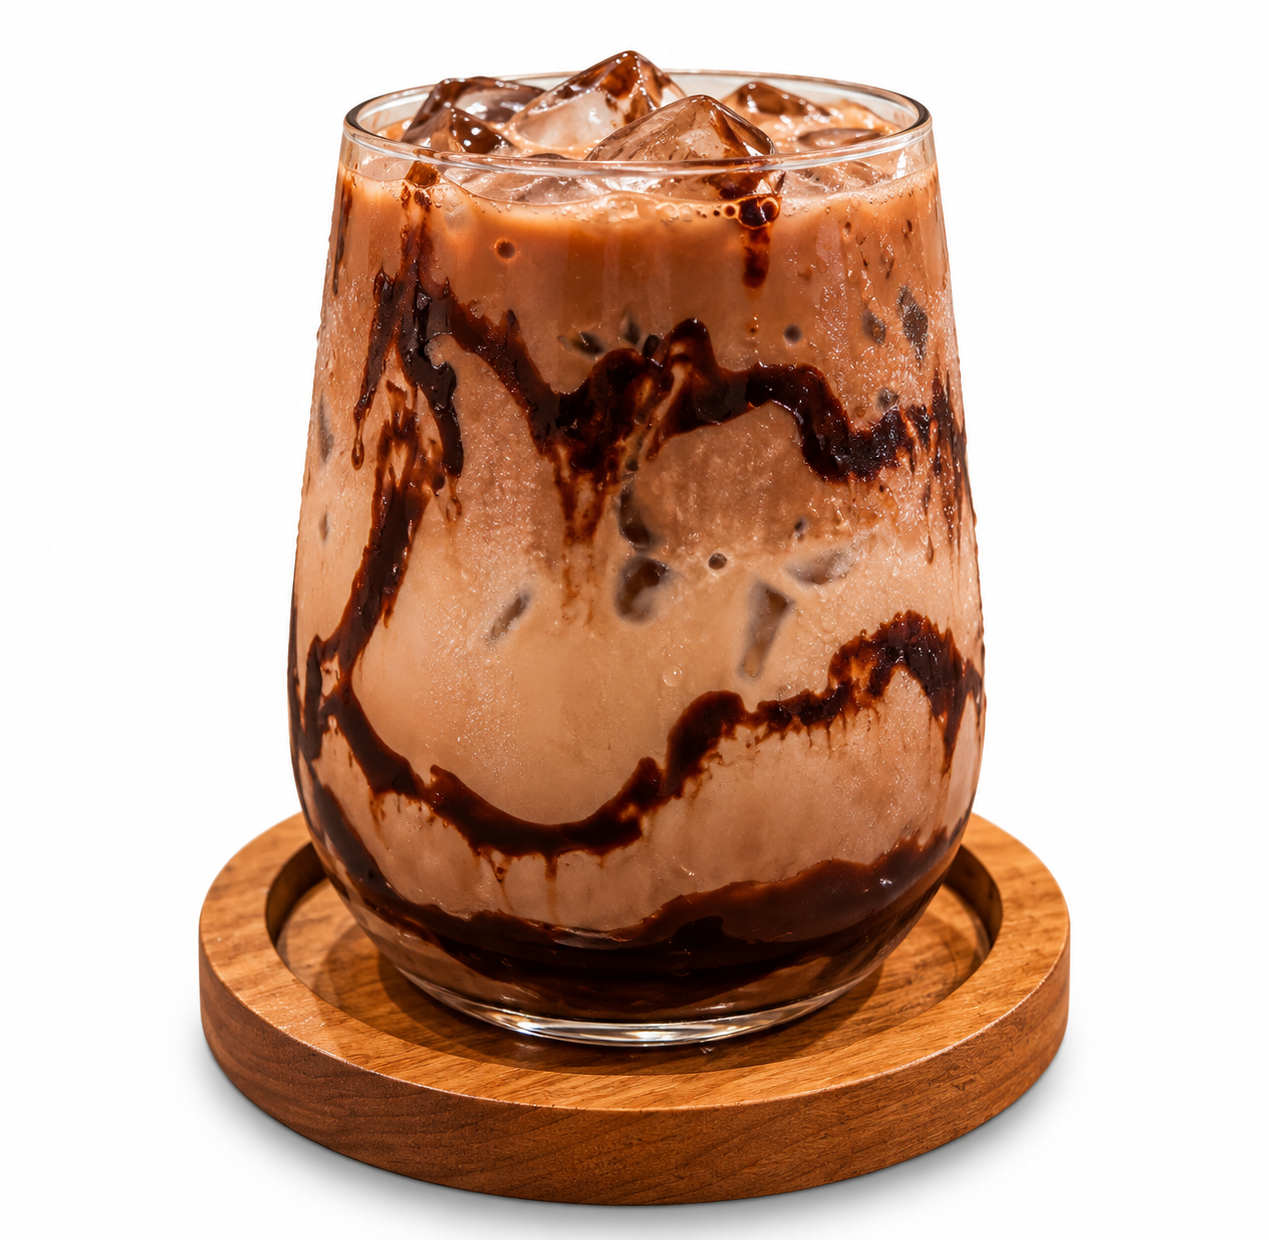
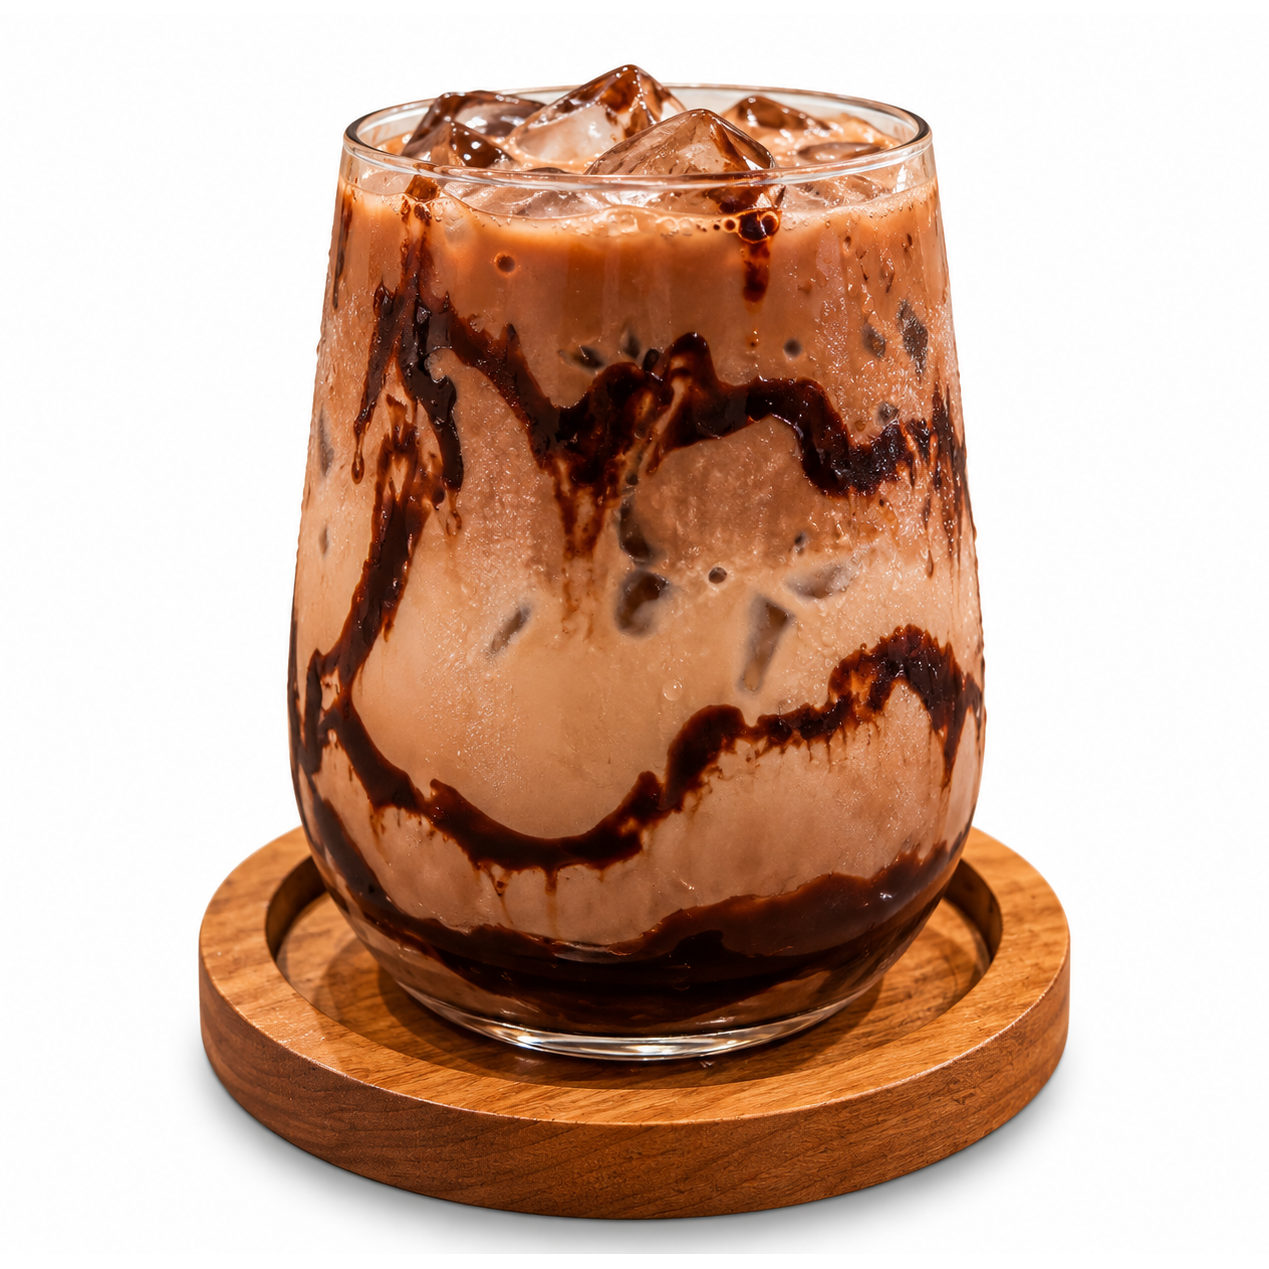
imagen fondo

Changed region(s): [[0.1537, 0.521, 0.8605, 1.0], [0.2459, 0.0306, 0.7683, 0.429]]

diff --git a/menu.css b/menu.css
@@ -584,11 +584,11 @@ section.category{scroll-margin-top:calc(80px + env(safe-area-inset-top));}
 .preview-gallery{
   display:flex; width:100%; overflow-x:auto; scroll-snap-type:x mandatory;
   overscroll-behavior-x:contain; scrollbar-width:none;
-  background:var(--cream); touch-action:pan-x pan-y;
+  background:#fff; touch-action:pan-x pan-y;
 }
 .preview-gallery::-webkit-scrollbar{display:none;}
 .preview-gallery:focus-visible{outline-offset:-4px;}
-.preview-slide{flex:0 0 100%; min-width:0; scroll-snap-align:center; scroll-snap-stop:always; aspect-ratio:1/1; max-height:48dvh; background:var(--cream); display:grid; place-items:center;}
+.preview-slide{flex:0 0 100%; min-width:0; scroll-snap-align:center; scroll-snap-stop:always; aspect-ratio:1/1; max-height:48dvh; background:#fff; display:grid; place-items:center;}
 .preview-slide img{display:block; width:100%; height:100%; min-height:0; padding:0; object-fit:contain;}
 .preview-slide img[hidden]{display:none;}
 .image-fallback{padding:40px; color:var(--olive-deep); text-align:center; line-height:1.6;}
@@ -618,8 +618,8 @@ section.category{scroll-margin-top:calc(80px + env(safe-area-inset-top));}
 }
 
 /* Responsive image viewport with scrollable zoom in both directions. */
-.preview-slide{position:relative; display:block; aspect-ratio:auto; height:min(100vw, 48vh, 560px); height:min(100vw, 48dvh, 560px); overflow:hidden;}
-.image-viewport{width:100%; height:100%; touch-action:pan-x pan-y; overflow:hidden; background:var(--cream);}
+.preview-slide{position:relative; display:block; aspect-ratio:auto; height:min(100vw, 48vh, 560px); height:min(100vw, 48dvh, 560px); overflow:hidden; background:#fff;}
+.image-viewport{width:min(100vw, 48dvh, 560px); height:100%; margin-inline:auto; touch-action:pan-x pan-y; overflow:hidden; background:#fff;}
 .image-surface{width:100%; height:100%; display:grid; place-items:center;}
 .preview-slide .image-surface img{width:100%; height:100%; max-width:none; padding:0; object-fit:contain; cursor:zoom-in; user-select:none; -webkit-user-drag:none;}
 .image-viewport.is-zoomed{overflow:auto; overscroll-behavior:contain; touch-action:none;}

diff --git a/menu-halloween.css b/menu-halloween.css
@@ -142,6 +142,9 @@ body.theme-halloween .preview-gallery,
 body.theme-halloween .preview-slide,
 body.theme-halloween .image-viewport,
 body.theme-halloween .image-loading-status { background:var(--cream); }
+body.theme-halloween .preview-gallery,
+body.theme-halloween .preview-slide,
+body.theme-halloween .image-viewport { background:#fff; }
 body.theme-halloween .preview-category,
 body.theme-halloween .preview-heading h2,
 body.theme-halloween .preview-price,
